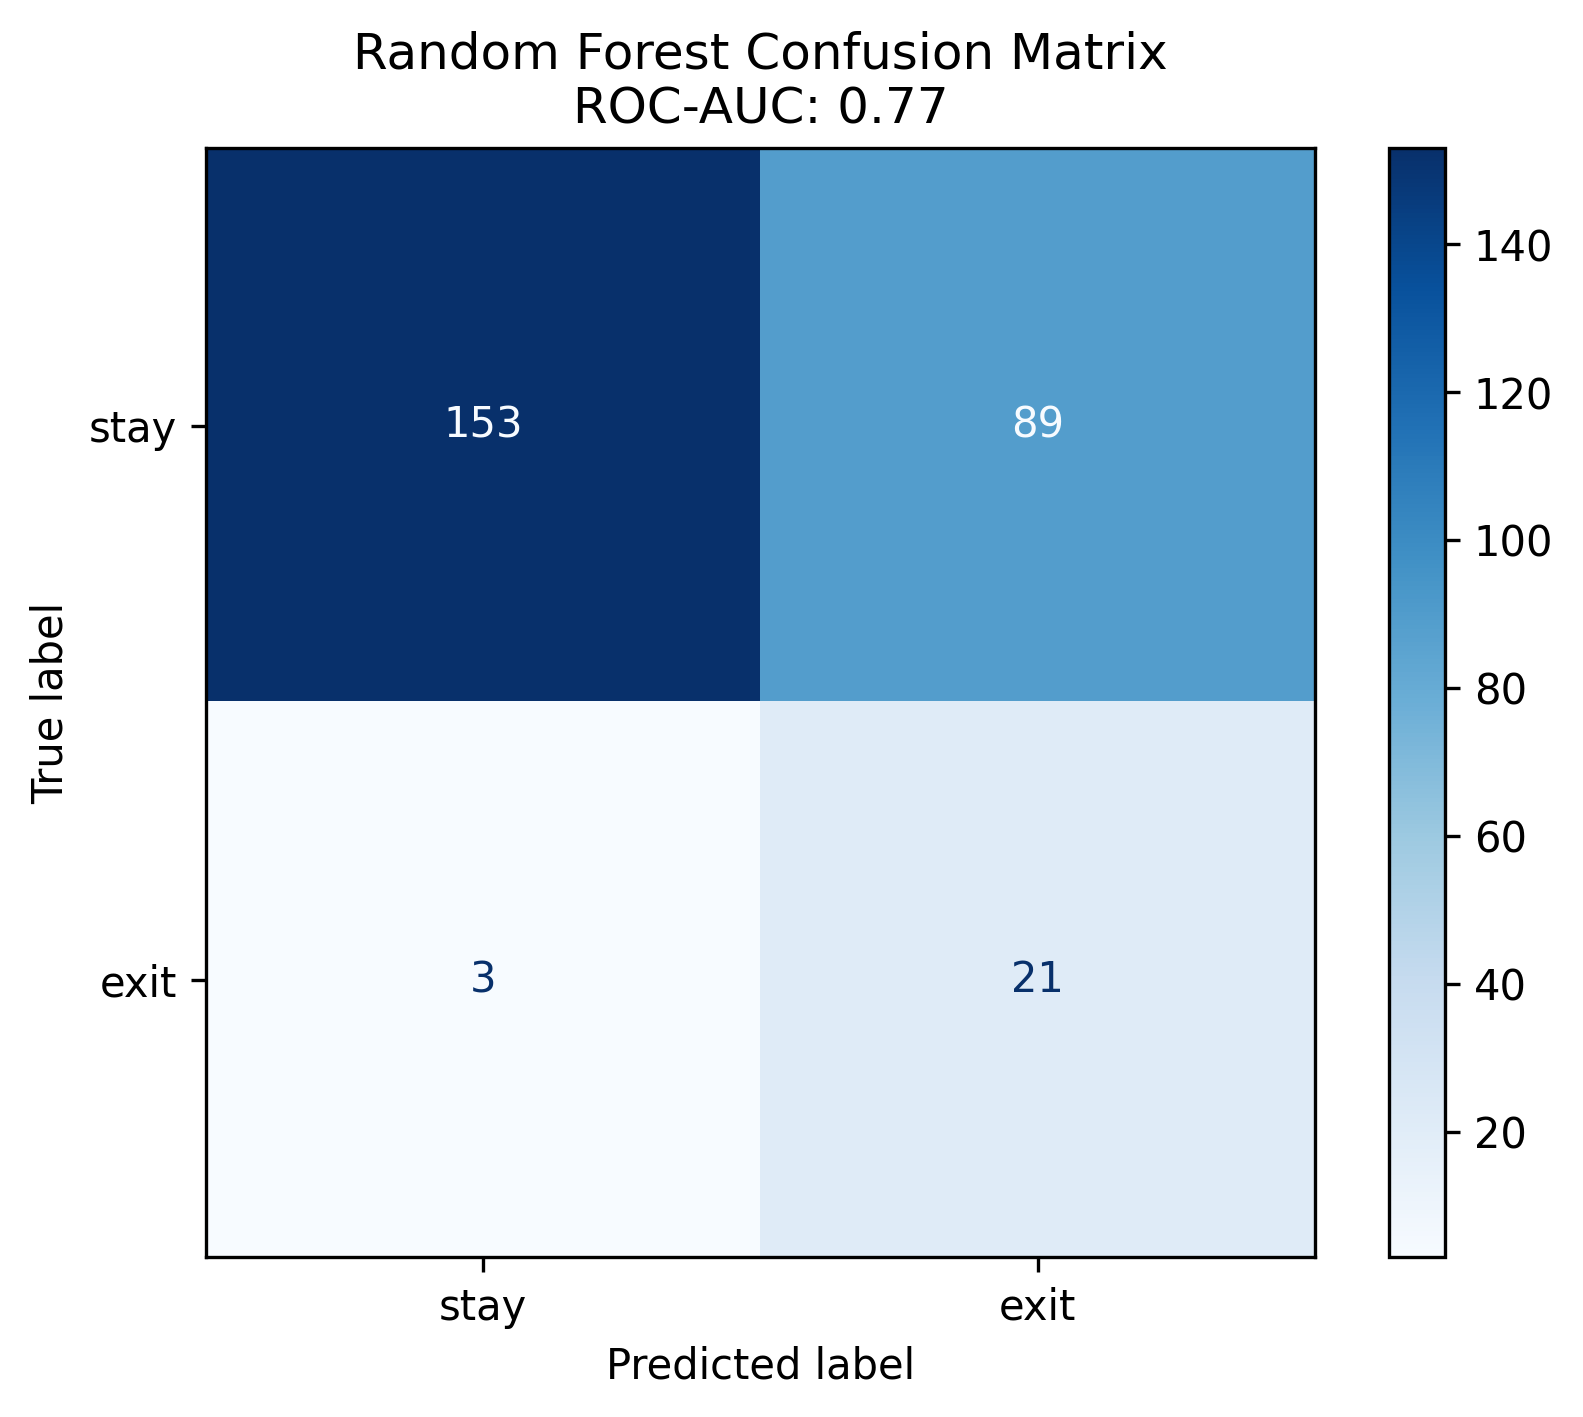
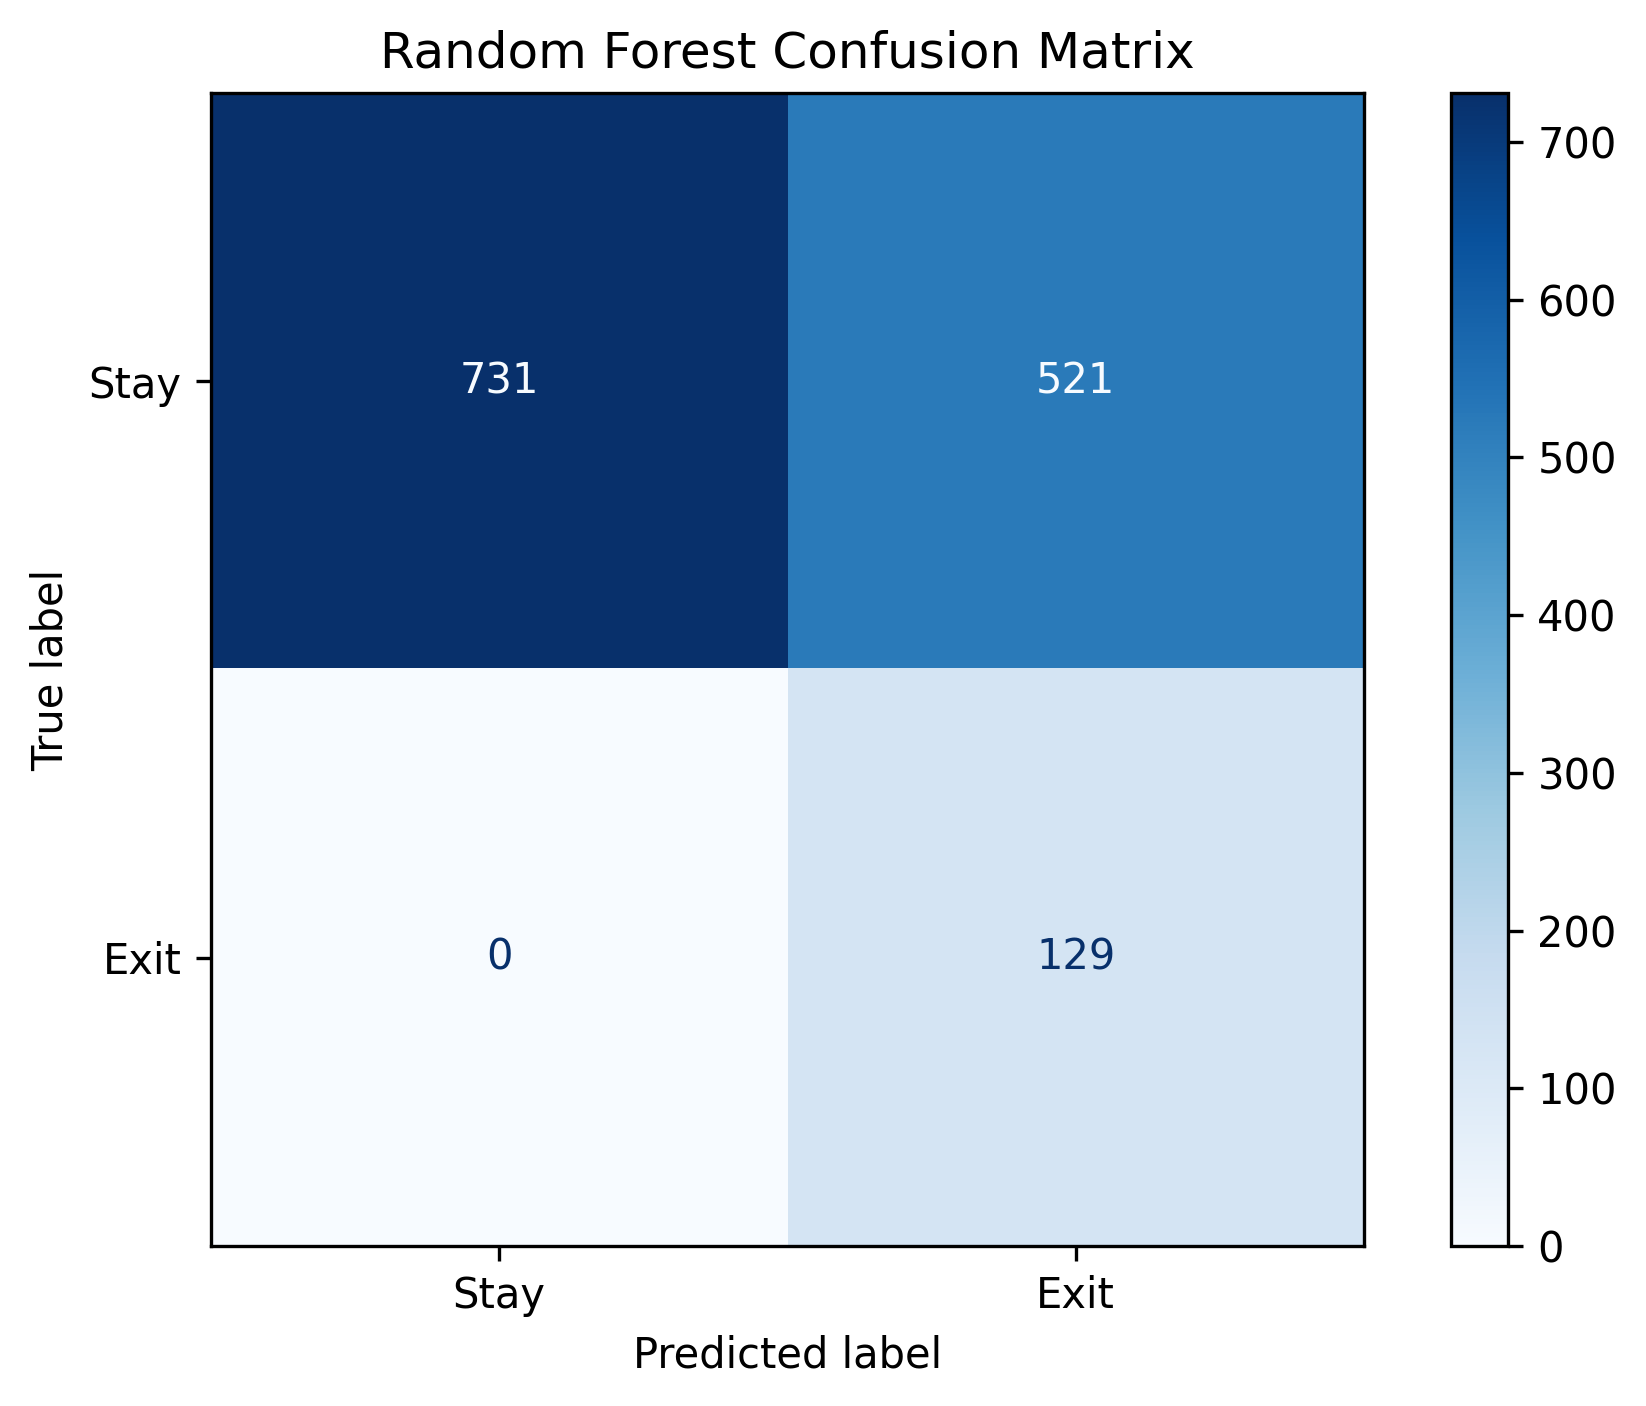
Add files via upload

diff --git a/Code/Visualization/aca_marketplace_visualizations.py b/Code/Visualization/aca_marketplace_visualizations.py
@@ -1,0 +1,270 @@
+# ==============================
+# ACA MARKETPLACE VISUALIZATION PIPELINE
+# ==============================
+
+import pandas as pd
+import matplotlib.pyplot as plt
+import seaborn as sns
+import plotly.express as px
+
+from sklearn.preprocessing import StandardScaler
+from sklearn.ensemble import RandomForestClassifier
+from sklearn.metrics import classification_report, confusion_matrix, ConfusionMatrixDisplay, roc_auc_score
+
+# ==============================
+# LOAD DATA
+# ==============================
+
+df = pd.read_csv(r"C:\Users\gabby\OneDrive\Desktop\Howard\DATA 404\Final Project\COMPLETE_DATA.csv")
+
+print("Dataset loaded successfully")
+print(df.head())
+print(df.columns)
+
+# ==============================
+# DEFINE FEATURES AND TARGET
+# ==============================
+
+features = [
+    'Price Gap (Previous Year)',
+    'Market Share (%) (Previous Year)',
+    'Medicaid Expansion Impact (Previous Year)',
+    'Plan Count (Previous Year)'
+]
+
+target = 'Market Exit'
+
+# ==============================
+# PREPARE DATA
+# ==============================
+
+X = df[features].copy()
+y = df[target].copy()
+
+# Fill missing values with column medians
+X = X.fillna(X.median())
+
+# Scale features
+scaler = StandardScaler()
+X_scaled = scaler.fit_transform(X)
+
+# ==============================
+# TRAIN RANDOM FOREST MODEL
+# ==============================
+
+rf = RandomForestClassifier(
+    n_estimators=100,
+    random_state=42,
+    class_weight='balanced'
+)
+
+rf.fit(X_scaled, y)
+
+# Predict market exit risk
+df['predicted_risk'] = rf.predict_proba(X_scaled)[:, 1]
+
+# Create risk levels
+df['risk_level'] = pd.cut(
+    df['predicted_risk'],
+    bins=[0, 0.3, 0.6, 1],
+    labels=['Low', 'Medium', 'High'],
+    include_lowest=True
+)
+
+print(df[['State', 'Business Year', 'predicted_risk', 'risk_level']].head())
+
+# ==============================
+# FEATURE IMPORTANCE
+# ==============================
+
+feature_importance = pd.DataFrame({
+    'feature': features,
+    'importance': rf.feature_importances_
+}).sort_values(by='importance', ascending=False)
+
+print(feature_importance)
+
+# ==============================
+# SAVE DATASET WITH PREDICTIONS
+# ==============================
+
+df.to_csv(
+    r"C:\Users\gabby\OneDrive\Desktop\Howard\DATA 404\Final Project\COMPLETE_DATA_WITH_RISK.csv",
+    index=False
+)
+
+# ==============================
+# CREATE STATE-YEAR DATASET FOR MAPS AND TABLEAU
+# ==============================
+
+state_df = df.groupby(['State', 'Business Year']).agg({
+    'predicted_risk': 'mean',
+    'Market Exit': 'mean',
+    'Price Gap': 'mean',
+    'Market Share (%)': 'mean',
+    'Medicaid Expansion Impact': 'mean',
+    'Plan Count': 'mean'
+}).reset_index()
+
+state_df['risk_level'] = pd.cut(
+    state_df['predicted_risk'],
+    bins=[0, 0.3, 0.6, 1],
+    labels=['Low', 'Medium', 'High'],
+    include_lowest=True
+)
+
+state_df = state_df.rename(columns={
+    'State': 'state',
+    'Business Year': 'year',
+    'Market Exit': 'market_exit_rate'
+})
+
+print(state_df.head())
+
+state_df.to_csv(
+    r"C:\Users\gabby\OneDrive\Desktop\Howard\DATA 404\Final Project\aca_marketplace_risk_final.csv",
+    index=False
+)
+
+# ==============================
+# VISUAL 1: U.S. RISK MAP
+# ==============================
+
+latest_year = state_df['year'].max()
+
+fig = px.choropleth(
+    state_df[state_df['year'] == latest_year],
+    locations='state',
+    locationmode='USA-states',
+    color='predicted_risk',
+    scope='usa',
+    color_continuous_scale='Reds',
+    title=f'ACA Marketplace Predicted Risk by State ({latest_year})'
+)
+
+fig.show()
+
+fig.write_html(
+    r"C:\Users\gabby\OneDrive\Desktop\Howard\DATA 404\Final Project\risk_map.html"
+)
+
+# ==============================
+# VISUAL 2: TOP 10 HIGHEST-RISK STATES
+# ==============================
+
+latest = state_df[state_df['year'] == latest_year]
+
+top10 = latest.sort_values(
+    'predicted_risk',
+    ascending=False
+).head(10)
+
+plt.figure(figsize=(10, 6))
+sns.barplot(
+    data=top10,
+    x='predicted_risk',
+    y='state'
+)
+
+plt.title(f"Top 10 Highest-Risk States ({latest_year})")
+plt.xlabel("Predicted Risk")
+plt.ylabel("State")
+plt.tight_layout()
+
+plt.savefig(
+    r"C:\Users\gabby\OneDrive\Desktop\Howard\DATA 404\Final Project\top_10_states.png",
+    dpi=300,
+    bbox_inches='tight'
+)
+
+plt.show()
+
+# ==============================
+# VISUAL 3: AVERAGE RISK OVER TIME
+# ==============================
+
+trend = state_df.groupby('year')['predicted_risk'].mean().reset_index()
+
+plt.figure(figsize=(10, 6))
+sns.lineplot(
+    data=trend,
+    x='year',
+    y='predicted_risk',
+    marker='o'
+)
+
+plt.title("Average ACA Marketplace Risk Over Time")
+plt.xlabel("Year")
+plt.ylabel("Average Predicted Risk")
+plt.tight_layout()
+
+plt.savefig(
+    r"C:\Users\gabby\OneDrive\Desktop\Howard\DATA 404\Final Project\risk_trend.png",
+    dpi=300,
+    bbox_inches='tight'
+)
+
+plt.show()
+
+# ==============================
+# VISUAL 4: FEATURE IMPORTANCE
+# ==============================
+
+plt.figure(figsize=(10, 6))
+sns.barplot(
+    data=feature_importance,
+    x='importance',
+    y='feature'
+)
+
+plt.title("Feature Importance: Predictors of Marketplace Exit Risk")
+plt.xlabel("Importance")
+plt.ylabel("Feature")
+plt.tight_layout()
+
+plt.savefig(
+    r"C:\Users\gabby\OneDrive\Desktop\Howard\DATA 404\Final Project\feature_importance.png",
+    dpi=300,
+    bbox_inches='tight'
+)
+
+plt.show()
+
+# ==============================
+# VISUAL 5: CONFUSION MATRIX
+# ==============================
+
+y_pred = rf.predict(X_scaled)
+
+cm = confusion_matrix(y, y_pred)
+disp = ConfusionMatrixDisplay(
+    confusion_matrix=cm,
+    display_labels=['Stay', 'Exit']
+)
+
+disp.plot(cmap='Blues', values_format='d')
+plt.title("Random Forest Confusion Matrix")
+plt.tight_layout()
+
+plt.savefig(
+    r"C:\Users\gabby\OneDrive\Desktop\Howard\DATA 404\Final Project\confusion_matrix_rf.png",
+    dpi=300,
+    bbox_inches='tight'
+)
+
+plt.show()
+
+# ==============================
+# MODEL SUMMARY
+# ==============================
+
+print("Classification Report:")
+print(classification_report(y, y_pred))
+
+try:
+    auc = roc_auc_score(y, df['predicted_risk'])
+    print(f"ROC-AUC Score: {auc:.2f}")
+except:
+    print("ROC-AUC could not be calculated.")
+
+print("All files saved successfully.")